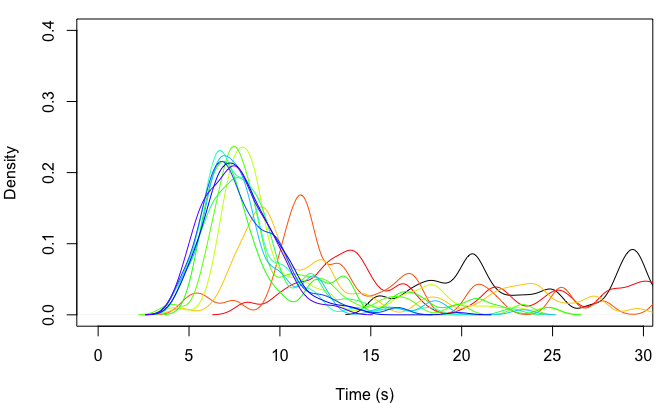
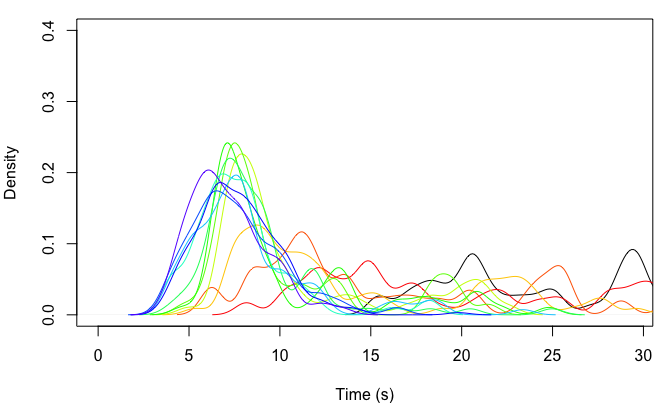
Removing adj_poss because it is redundant with max_dist

Changed region(s): [[0.1875, 0.3573, 0.9688, 0.804], [0.8125, 0.6551, 0.8438, 0.6849], [0.4375, 0.4764, 0.4688, 0.5062]]

diff --git a/README.md b/README.md
@@ -101,9 +101,10 @@ beta
 (init_time/n_holds)*seq_ratios
 ```
 
-    ##  [1] 1.2016715 0.3635775 1.0146782 0.8979425 1.2744094 0.4522616 0.8356682
-    ##  [8] 1.0342582 0.9435056 0.7262213 1.6958151 1.4004775 1.0410451 0.4203595
-    ## [15] 0.9260607 0.3129652 0.4928775 0.8009349 1.3722188 1.0508054
+    ##  [1] 0.65229230 0.85017774 0.58124922 1.25796814 1.18137493 0.63833767
+    ##  [7] 1.25367652 1.65471092 0.01098751 1.03753524 0.39950981 0.33821582
+    ## [13] 1.49153421 0.89728872 1.55949420 0.60290737 1.64239926 0.29313278
+    ## [19] 0.86920733 0.93018777
 
 This `sd_multiplier` value of 0.5 generates a distribution of times per
 hold that is similar to the example distribution in [Reveret et
@@ -123,16 +124,13 @@ a simplifying assumption and use 0.5 for all of our simulations.
 In each timestep, each climber has a certain `innov_prob` probability of
 innovation. Innovations are changes to the beta of the route, in this
 case flipping one of the booleans of the `beta` vector from TRUE to
-FALSE. Not all boolean flips are possible. The parameter `adj_poss`
-controls the number of successive FALSE booleans that are allowed in the
-model. We will assume `adj_poss` = 2, because (to our knowledge) nobody
-has successfully skipped three or more holds in speed climbing.
-
-Additionally, we will include a parameter `max_dist` that controls the
-maximum travel distance (Euclidean distance in meters) that a climber
-can travel after skipping a hold. The prior for this parameter will go
-from the minimum distance between holds that are one hold apart to the
-maximum distance between holds that are two (`adj_poss`) holds apart.
+FALSE. Not all boolean flips are possible. We will include a parameter
+`max_dist` that controls the maximum travel distance (Euclidean distance
+in meters) that a climber can travel after skipping a hold. The prior
+for this parameter will go from the minimum distance between holds that
+are one hold apart to the maximum distance between holds that are two
+holds apart To our knowledge, nobody has successfully skipped three or
+more holds in speed climbing, so this is an appropriately wide prior.
 The first hold can never be skipped, because every climber is required
 to start on it. The Euclidean distance for the last hold will be the
 distance between the second-to-last (or third-to-last) hold and the
@@ -312,7 +310,7 @@ output <- SpeedClimbingABM(n = n, years = years, pop_data = pop_data, grid = gri
 Sys.time() - start
 ```
 
-    ## Time difference of 0.3574409 secs
+    ## Time difference of 0.1917951 secs
 
 In the above plot, each distribution (from right to left) is the
 distribution of `current_records` for climbers in the population in each
@@ -325,32 +323,32 @@ output
 
     ##              0%       10%       20%       30%       40%       50%       60%
     ##  [1,] 15.400000 18.256000 20.408000 21.188000 24.432000 28.640000 29.712000
-    ##  [2,]  8.080000 11.212208 13.006475 14.087226 15.603768 20.951223 24.921408
-    ##  [3,]  5.004672  9.922364 10.685502 11.247696 11.614398 13.203548 15.065357
-    ##  [4,]  4.565625  7.884936  8.773138  9.237135  9.880000 11.505000 12.690000
-    ##  [5,]  4.197945  7.030000  7.335178  7.835000  8.229885  8.590000  9.030000
-    ##  [6,]  4.011660  6.343744  7.120000  7.272186  7.641014  8.171768  8.610000
-    ##  [7,]  5.401533  6.077252  6.475737  6.980000  7.234000  7.788274  8.534687
-    ##  [8,]  4.790783  5.780095  6.372643  6.968657  7.561200  7.758000  8.562361
-    ##  [9,]  4.609093  5.713902  6.349991  6.646000  6.915274  7.410000  8.092000
-    ## [10,]  4.413766  5.771984  6.356000  6.659423  7.104361  7.640000  8.064000
-    ## [11,]  4.407839  5.648615  6.146090  6.568001  7.032888  7.510000  8.124978
-    ## [12,]  4.404906  5.619296  6.460000  6.817600  7.318000  7.711564  8.176606
-    ## [13,]  4.380829  5.519397  5.958194  6.570256  7.049352  7.525000  7.974382
-    ##             70%       80%      90%     100%
-    ##  [1,] 32.472000 39.548000 43.25400 62.06000
-    ##  [2,] 28.557000 30.598000 33.13300 48.08000
-    ##  [3,] 17.331187 21.293987 27.09493 33.23000
-    ##  [4,] 16.642057 22.180000 24.34453 31.90000
-    ##  [5,] 10.754062 12.844932 18.39930 24.74039
-    ##  [6,] 10.134444 11.530000 14.71543 23.37186
-    ##  [7,] 11.686735 13.546000 17.35353 24.79000
-    ##  [8,]  8.974000  9.786211 11.86200 22.74628
-    ##  [9,]  8.427145  9.434648 10.64612 18.15000
-    ## [10,]  8.558119 10.001742 11.95917 23.37000
-    ## [11,]  8.635860  9.745827 10.87693 16.59000
-    ## [12,]  8.852000  9.496408 10.52140 19.83000
-    ## [13,]  8.468800  9.178912 10.28040 13.30600
+    ##  [2,]  8.080000 11.713221 13.230382 14.825509 16.848000 20.681732 24.314000
+    ##  [3,]  6.137332  8.464931  9.977822 11.096318 11.840509 13.474007 16.231523
+    ##  [4,]  5.332223  7.670721  8.480000  9.265000 10.313183 11.505000 12.690000
+    ##  [5,]  4.957141  7.058353  7.430000  7.847544  8.460000  8.705862  9.299056
+    ##  [6,]  4.782399  6.834947  7.166333  7.363209  7.766841  8.243902  8.829000
+    ##  [7,]  4.641932  6.657534  6.884983  7.181000  7.636000  8.219211  8.822027
+    ##  [8,]  4.034412  6.138800  6.672423  7.028000  7.619031  7.849000  8.634020
+    ##  [9,]  3.924371  5.272891  5.832917  6.544156  6.864190  7.380000  8.030181
+    ## [10,]  3.917408  5.019389  5.627358  6.562000  7.224000  7.640000  8.032009
+    ## [11,]  3.446072  4.691355  5.563178  6.186535  6.643469  7.310000  7.881432
+    ## [12,]  3.589976  5.110404  5.957216  6.519785  6.826800  7.600000  8.016130
+    ## [13,]  3.586636  4.726747  5.386970  5.838980  6.256800  6.792751  7.371800
+    ##             70%       80%       90%     100%
+    ##  [1,] 32.472000 39.548000 43.254000 62.06000
+    ##  [2,] 28.862000 31.218000 34.151000 48.08000
+    ##  [3,] 20.206797 24.435371 25.634489 33.23000
+    ##  [4,] 17.612979 22.129083 23.862902 31.90000
+    ##  [5,] 10.715717 14.900000 19.936331 22.66092
+    ##  [6,] 10.380000 12.830000 18.586290 21.46823
+    ##  [7,] 11.749000 13.546000 18.425050 24.79000
+    ##  [8,]  9.026400  9.734000 11.862000 24.97120
+    ##  [9,]  8.396859  8.960445 10.675733 18.26773
+    ## [10,]  8.604000 10.150000 12.051000 23.37000
+    ## [11,]  8.558815  9.640000 10.841409 16.59000
+    ## [12,]  8.772000  9.413400 10.503000 19.83000
+    ## [13,]  8.008068  8.788600  9.975361 13.59109
 
 Let’s do another run of the model, but let’s add interaction effects so
 that climbers with slower times are more likely to learn
@@ -378,7 +376,7 @@ output <- SpeedClimbingABM(n = n, years = years, pop_data = pop_data, grid = gri
 Sys.time() - start
 ```
 
-    ## Time difference of 0.4235671 secs
+    ## Time difference of 0.217845 secs
 
 ``` r
 output
@@ -386,29 +384,29 @@ output
 
     ##              0%       10%       20%       30%       40%       50%       60%
     ##  [1,] 15.400000 18.256000 20.408000 21.188000 24.432000 28.640000 29.712000
-    ##  [2,]  8.080000 11.070635 12.884395 14.486272 16.128637 20.618114 24.783051
-    ##  [3,]  5.524309  8.498236  9.564546 11.008008 11.880000 13.036565 15.098352
-    ##  [4,]  4.745187  7.503882  8.649010  9.216619 10.260000 11.346142 12.410000
-    ##  [5,]  3.959606  6.877707  7.290000  7.745000  8.263424  8.590000  9.030000
-    ##  [6,]  3.830641  5.344099  6.270000  7.188000  7.535021  7.946475  8.610000
-    ##  [7,]  4.016897  5.931408  6.498952  6.980000  7.407757  7.800000  8.541838
-    ##  [8,]  3.824089  5.003719  6.195525  6.928800  7.426266  7.741000  8.292817
-    ##  [9,]  3.674447  4.481168  5.406298  6.216059  6.658000  7.380000  8.049877
-    ## [10,]  3.321633  4.587125  5.834472  6.640419  7.230000  7.645000  8.028000
-    ## [11,]  3.482513  4.506797  5.290784  5.946015  6.529663  7.185000  7.738000
-    ## [12,]  2.713401  4.583468  5.416347  6.314000  6.816800  7.435000  7.838000
-    ## [13,]  2.620836  3.710568  4.464717  4.961161  5.377142  5.916462  6.604074
+    ##  [2,]  8.080000 11.562981 12.479813 14.172841 16.168967 20.296796 25.160000
+    ##  [3,]  6.043035  8.277218  9.775976 11.075495 11.700462 12.779405 15.373980
+    ##  [4,]  5.228193  7.599383  8.469579  9.130000 10.104529 11.469959 12.690000
+    ##  [5,]  4.830081  6.933944  7.357581  7.835561  8.490000  8.739531  9.508784
+    ##  [6,]  4.635572  6.263508  7.120000  7.323120  7.620000  8.382609  8.960000
+    ##  [7,]  5.236650  6.380862  6.938383  7.228073  7.424000  7.944887  8.633391
+    ##  [8,]  5.195750  6.263138  6.875348  7.229287  7.684000  7.958395  8.506301
+    ##  [9,]  5.684568  5.948669  6.545060  6.870749  7.153807  7.900000  8.220000
+    ## [10,]  5.476944  6.338154  6.640346  6.961427  7.242036  7.645000  8.064000
+    ## [11,]  4.853170  6.039679  6.480162  6.835541  7.278000  7.633688  8.275006
+    ## [12,]  3.632268  5.294434  6.023574  6.580369  7.089442  7.620000  8.014000
+    ## [13,]  3.050733  5.012867  5.620358  6.109421  6.489192  6.860000  7.555770
     ##             70%       80%      90%     100%
     ##  [1,] 32.472000 39.548000 43.25400 62.06000
-    ##  [2,] 28.862000 30.598000 33.13300 56.35012
-    ##  [3,] 19.921562 21.905738 25.52600 46.32093
-    ##  [4,] 17.445147 21.570000 23.75463 31.90000
-    ##  [5,] 10.404615 13.125095 17.62395 20.69978
-    ##  [6,]  9.115920 10.403819 12.34282 17.20412
-    ##  [7,]  9.399614 13.546000 16.79027 24.79000
-    ##  [8,]  8.850100  9.403000 11.79280 17.89650
-    ##  [9,]  8.327514  8.712000 10.11400 18.15000
-    ## [10,]  8.604000  9.648102 11.82700 23.37000
-    ## [11,]  8.439186  9.342000 10.10109 16.59000
-    ## [12,]  8.496400  9.180403 10.25600 19.83000
-    ## [13,]  7.381000  8.109200  9.33540 13.30600
+    ##  [2,] 28.889246 30.598000 33.13300 48.08000
+    ##  [3,] 18.662874 23.207538 25.52600 33.23000
+    ##  [4,] 17.203950 21.710000 23.69500 31.90000
+    ##  [5,] 10.900073 14.400619 19.41311 21.56242
+    ##  [6,] 10.318678 12.359520 16.12290 19.46955
+    ##  [7,] 11.714826 13.539249 17.48478 24.79000
+    ##  [8,]  8.993197  9.734000 12.24469 21.18766
+    ##  [9,]  8.502000  9.110170 11.21308 18.15000
+    ## [10,]  8.604000 10.150000 12.54600 23.37000
+    ## [11,]  9.158000  9.782000 11.96911 18.74039
+    ## [12,]  8.772000  9.239800 10.50300 19.83000
+    ## [13,]  8.117585  8.675284  9.66654 13.30600
